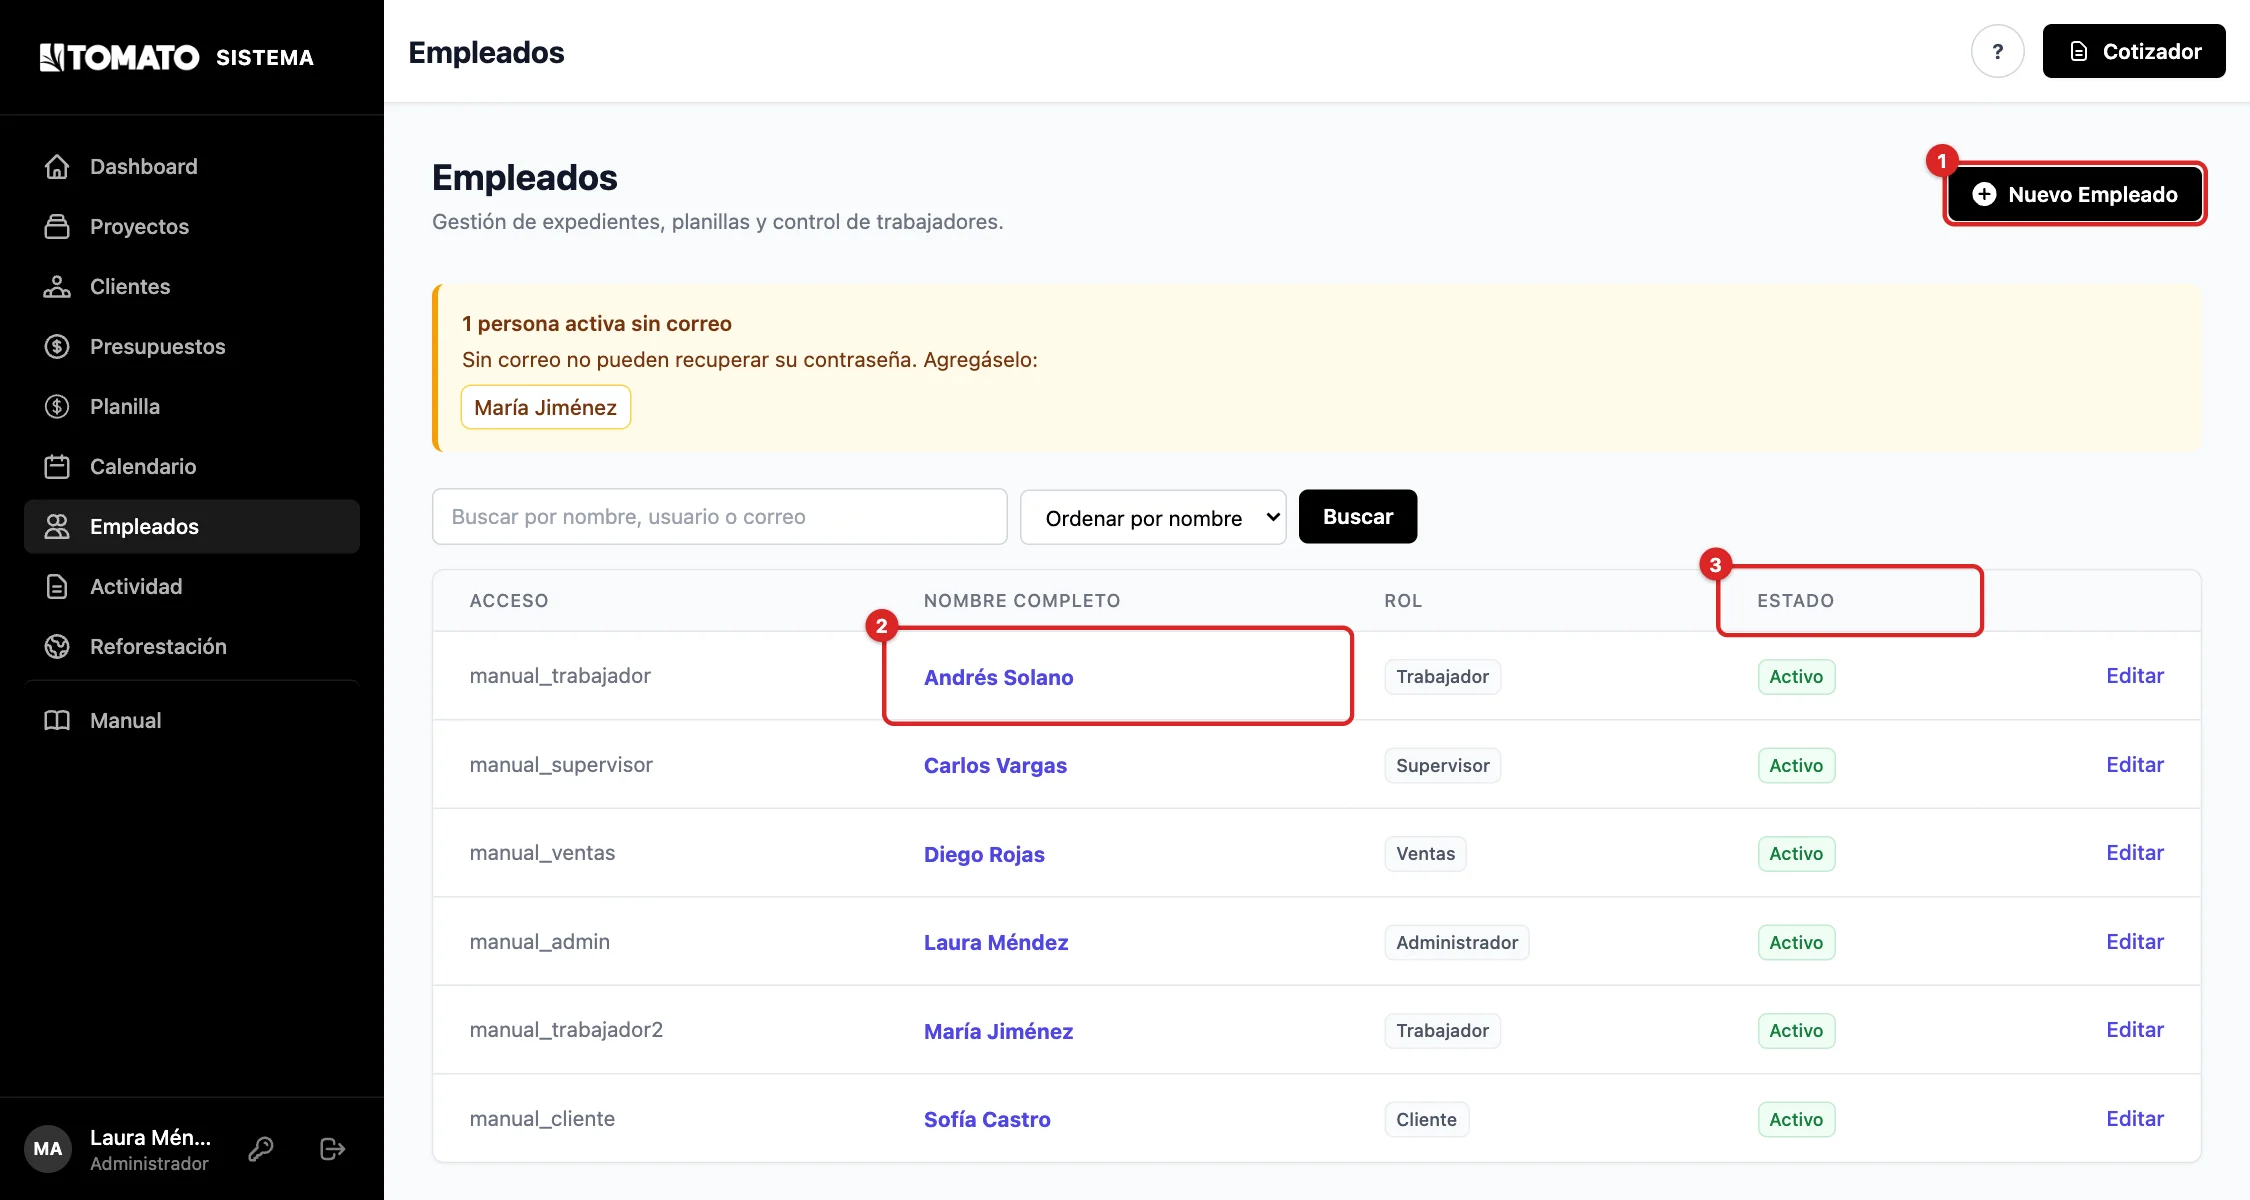
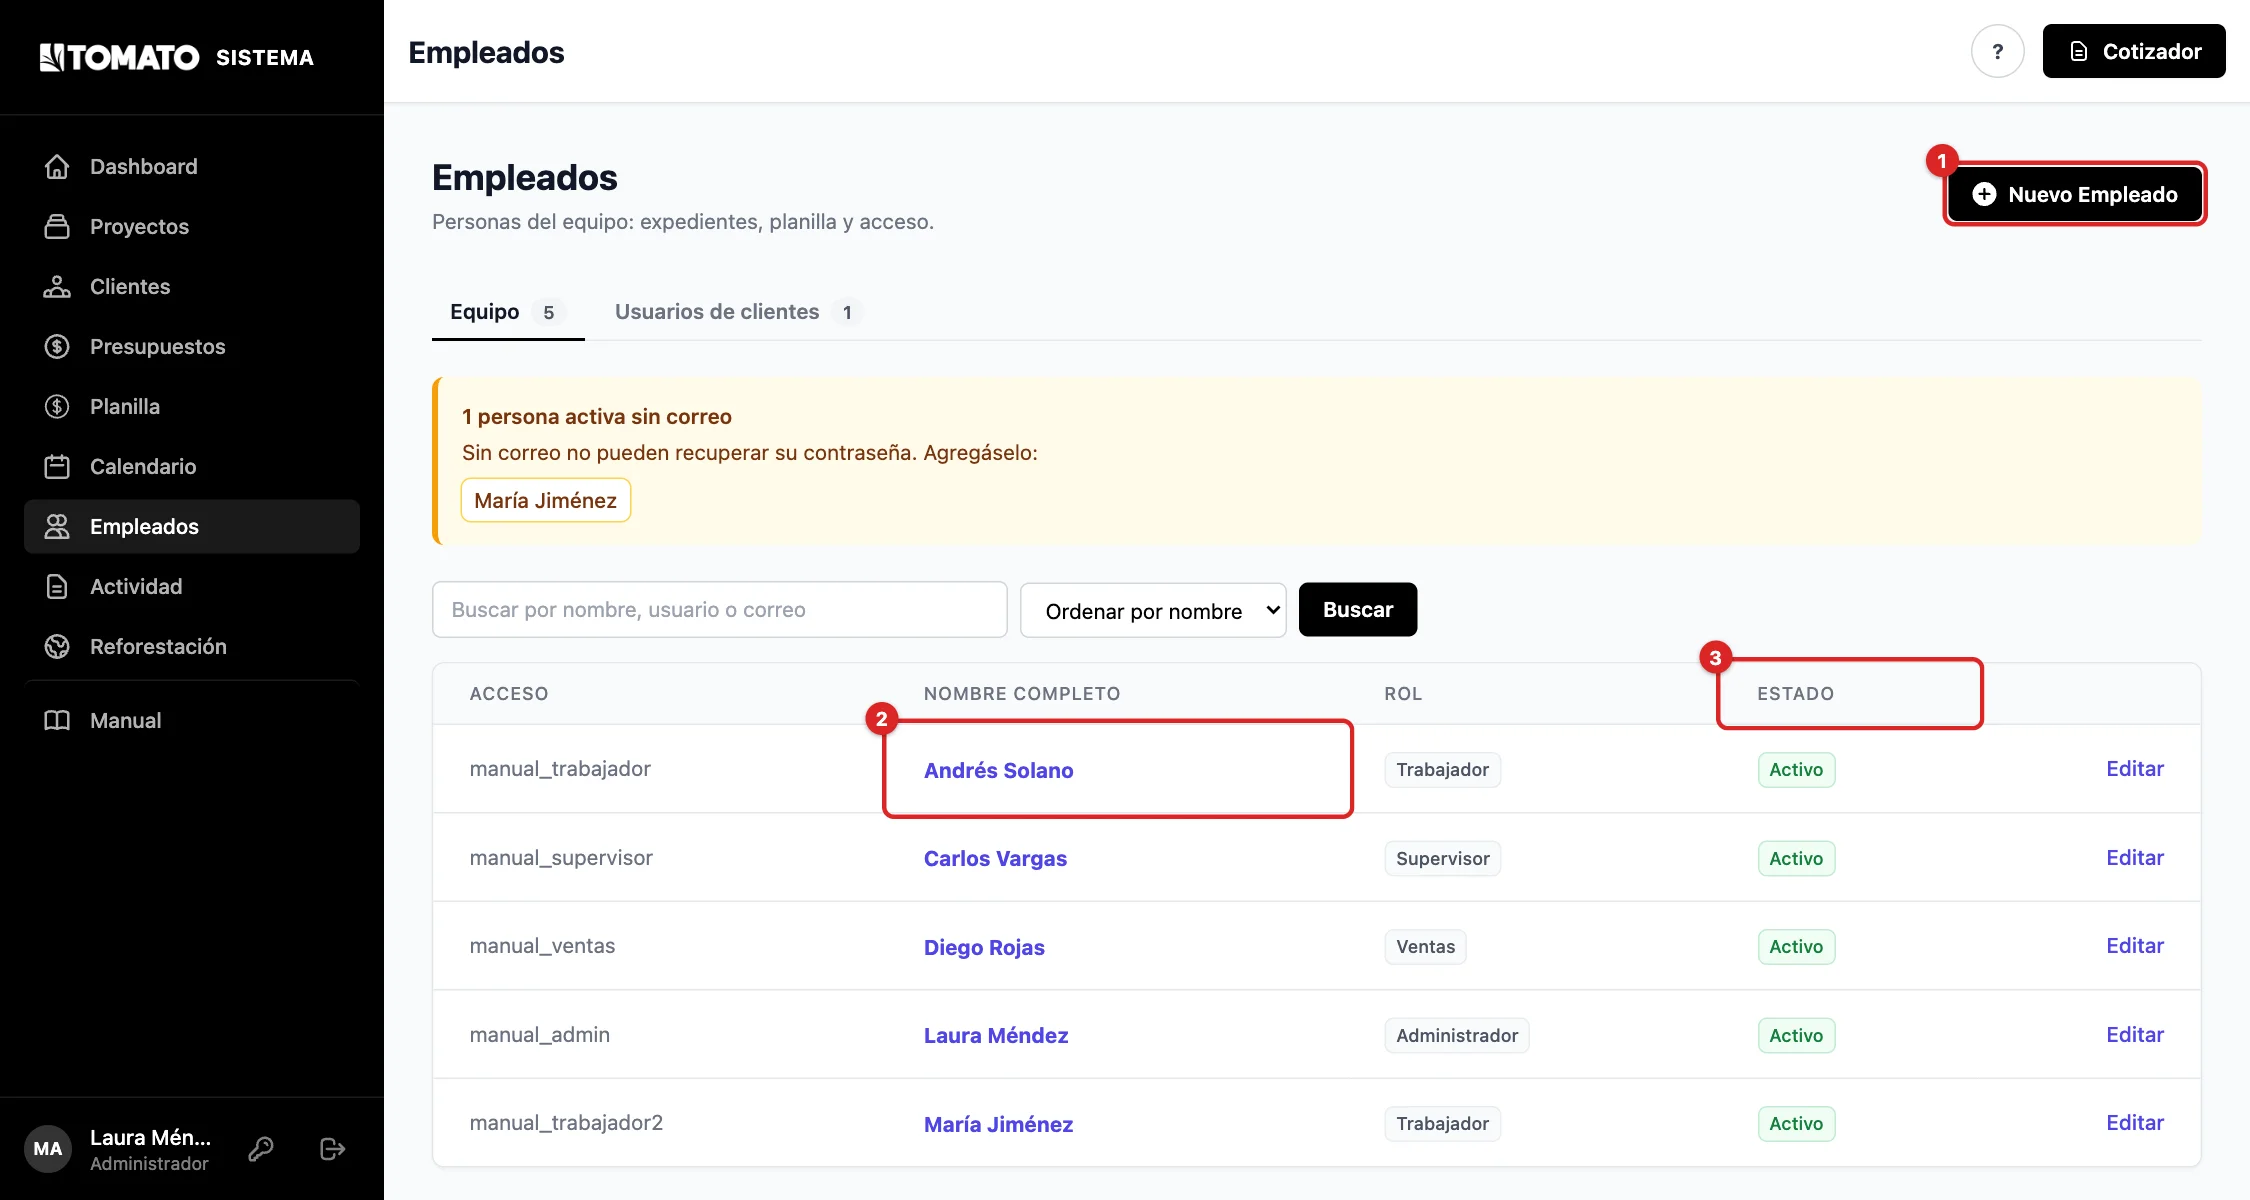
Employees: safe delete and client users on their own tab
- Deleting a person with history no longer crashes: it says what history they
  have and to deactivate them; only people without history are deleted, after
  removing their links.
- Employees list split into Equipo and Usuarios de clientes.
- Manual and CHANGELOG updated; new screenshots.

diff --git a/app/templates/users/list.html b/app/templates/users/list.html
@@ -8,7 +8,7 @@
     <div class="flex flex-col sm:flex-row justify-between items-start sm:items-center gap-4 mb-8">
         <div>
             <h1 class="text-2xl font-bold text-gray-900">Empleados</h1>
-            <p class="mt-1 text-sm text-gray-500">Gestión de expedientes, planillas y control de trabajadores.</p>
+            <p class="mt-1 text-sm text-gray-500">{{ 'Personas del equipo: expedientes, planilla y acceso.' if tipo == 'equipo' else 'Usuarios con los que cada cliente entra al portal a ver sus proyectos y cotizaciones.' }}</p>
         </div>
         <a href="/users/new"
             class="inline-flex items-center justify-center rounded-md bg-black px-4 py-2 text-sm font-semibold text-white shadow-sm hover:bg-gray-800 focus-visible:outline focus-visible:outline-2 focus-visible:outline-offset-2 focus-visible:outline-black">
@@ -20,6 +20,15 @@
             Nuevo Empleado
         </a>
     </div>
+
+    <nav class="mb-6 flex gap-2 border-b border-gray-200 text-sm font-semibold" aria-label="Tipo de usuario">
+        {% for key, label in [('equipo', 'Equipo'), ('clientes', 'Usuarios de clientes')] %}
+        <a href="/users/?tipo={{ key }}" class="-mb-px border-b-2 px-3 py-2 {{ 'border-black text-gray-900' if tipo == key else 'border-transparent text-gray-500 hover:text-gray-800' }}">{{ label }} <span class="ml-1 rounded-full bg-gray-100 px-2 py-0.5 text-xs text-gray-600">{{ counts[key] }}</span></a>
+        {% endfor %}
+    </nav>
+    {% if tipo == 'clientes' %}
+    <p class="mb-4 rounded-md bg-gray-50 p-3 text-sm text-gray-700">Para que un cliente vea su proyecto, su usuario tiene que estar en <em>Acceso al portal</em> del proyecto y ligado como contacto de su cuenta en Clientes. <strong>Eliminarlo le quita el acceso</strong>: si ya no debe entrar, desactivalo.</p>
+    {% endif %}
 
     {% if without_email %}
     <div class="mb-6 rounded-lg border-l-4 border-amber-500 bg-amber-50 p-4 text-sm text-amber-900">
@@ -34,6 +43,7 @@
     {% endif %}
 
     <form method="get" action="/users/" class="mb-4 flex flex-col gap-2 sm:flex-row sm:items-center">
+        <input type="hidden" name="tipo" value="{{ tipo }}">
         <input type="search" name="q" value="{{ q }}" placeholder="Buscar por nombre, usuario o correo" aria-label="Buscar"
             class="block w-full rounded-md border border-gray-300 px-3 py-2 text-sm sm:max-w-sm">
         <select name="sort" aria-label="Ordenar" onchange="this.form.submit()" class="rounded-md border border-gray-300 px-3 py-2 text-sm">
@@ -42,7 +52,7 @@
             {% endfor %}
         </select>
         <button class="rounded-md bg-black px-4 py-2 text-sm font-semibold text-white hover:bg-gray-800">Buscar</button>
-        {% if q %}<a href="/users/" class="text-sm text-gray-600 underline">Limpiar</a>{% endif %}
+        {% if q %}<a href="/users/?tipo={{ tipo }}" class="text-sm text-gray-600 underline">Limpiar</a>{% endif %}
     </form>
 
     <div class="bg-white shadow-sm rounded-lg border border-gray-200 overflow-x-auto">
@@ -98,7 +108,7 @@
             </tbody>
         </table>
         {% from "components/pagination.html" import render_pagination %}
-        {% set params = [] %}
+        {% set params = ['tipo=' ~ tipo] %}
         {% if q %}{% set _ = params.append('q=' ~ (q | urlencode)) %}{% endif %}
         {% if sort != 'name' %}{% set _ = params.append('sort=' ~ sort) %}{% endif %}
         {{ render_pagination(page, total_pages, '/users/' ~ ('?' ~ params | join('&') if params else '')) }}

diff --git a/app/templates/manual/empleados.html b/app/templates/manual/empleados.html
@@ -15,7 +15,8 @@
     (2, "Tocá el <strong>nombre</strong> para ver el expediente: contacto, fecha de ingreso, cargas sociales y documentos."),
     (3, "<strong>Estado</strong>: Activo, Inactivo o Liquidado, y <em>Editar</em>."),
 ]) }}
-<p>Arriba de la tabla podés <strong>buscar</strong> por nombre, usuario o correo y <strong>ordenar</strong> por nombre, rol,
+<p>La lista tiene dos pestañas: <strong>Equipo</strong> (trabajadores, supervisores, ventas y admins) y <strong>Usuarios
+    de clientes</strong> (los usuarios con los que cada cliente entra al portal). Arriba de la tabla podés <strong>buscar</strong> por nombre, usuario o correo y <strong>ordenar</strong> por nombre, rol,
     activos primero o más recientes.</p>
 {% endcall %}
 
@@ -54,8 +55,9 @@
     <li><strong>Desactivar</strong> (desmarcar <em>Empleado Activo</em>): la persona ya no puede entrar y, si tenía la
         sesión abierta, la pierde en la siguiente pantalla. Su historial se conserva. <strong>Es lo recomendado</strong>
         cuando alguien deja de trabajar.</li>
-    <li><strong>Eliminar Empleado</strong> borra a la persona para siempre y no se puede deshacer. Usalo solo para usuarios
-        creados por error.</li>
+    <li><strong>Eliminar Empleado</strong> borra a la persona para siempre y no se puede deshacer. Solo funciona con usuarios
+        creados por error, <strong>sin historial</strong>: si tiene bitácoras, asignaciones, planillas, pagos u otros
+        registros, el sistema dice cuáles y hay que desactivarla. Eliminar un usuario de cliente le quita el acceso al portal.</li>
     <li>Cuando alguien sale de la empresa con liquidación, hacelo desde Planilla → Liquidaciones: queda desactivado y marcado como liquidado.</li>
     <li>No podés desactivarte, quitarte el rol de admin ni eliminarte a vos mismo.</li>
 </ul>

diff --git a/app/routers/users.py b/app/routers/users.py
@@ -11,7 +11,7 @@ from sqlalchemy import or_, func
 
 from app.db.models.user import User
 from app.routers import deps
-from app.core.roles import ADMIN, ALL_ROLES, ROLE_LABELS
+from app.core.roles import CLIENT, ADMIN, ALL_ROLES, ROLE_LABELS
 from app.core.security import get_password_hash
 from sqlalchemy.exc import IntegrityError
 from app.utils.activity import log_activity
@@ -82,12 +82,17 @@ def list_users(
     limit: int = 10,
     q: str = "",
     sort: str = "name",
+    tipo: str = "equipo",
     db: Session = Depends(deps.get_db), 
     user: User = Depends(deps.get_current_user)
 ):
     check_admin(user)
 
-    query = db.query(User)
+    # Two lists: the team (payroll, calendar) and the clients' portal users.
+    tipo = "clientes" if tipo == "clientes" else "equipo"
+    query = db.query(User).filter(User.role == CLIENT if tipo == "clientes" else User.role != CLIENT)
+    counts = {"equipo": db.query(User).filter(User.role != CLIENT).count(),
+              "clientes": db.query(User).filter(User.role == CLIENT).count()}
     q = q.strip()
     if q:
         like = f"%{q}%"
@@ -118,6 +123,8 @@ def list_users(
         "total_records": total_records,
         "q": q,
         "sort": sort,
+        "tipo": tipo,
+        "counts": counts,
         "without_email": db.query(User).filter((User.email.is_(None)) | (User.email == ""),
                                                User.is_active == True).order_by(User.full_name).all(),  # noqa: E712
     })
@@ -315,6 +322,49 @@ def update_user(
     response.set_cookie(key="toast_message", value="Empleado actualizado correctamente")
     return response
 
+# Records that are the person's history: while any exists, the person is deactivated, never deleted.
+HISTORY = (
+    ("daily_logs", "user_id", "bitácora(s)"),
+    ("project_schedules", "user_id", "asignación(es)"),
+    ("payroll_entries", "user_id", "planilla(s)"),
+    ("payroll_payments", "user_id", "pago(s)"),
+    ("payroll_payments", "created_by_id", "pago(s) registrados"),
+    ("liquidations", "user_id", "liquidación(es)"),
+    ("liquidations", "created_by_id", "liquidación(es) registradas"),
+    ("tree_checks", "user_id", "monitoreo(s)"),
+    ("accounts", "owner_id", "cuenta(s) a cargo"),
+    ("accounts", "created_by_id", "cuenta(s) creadas"),
+    ("opportunities", "owner_id", "oportunidad(es) a cargo"),
+    ("opportunities", "created_by_id", "oportunidad(es) creadas"),
+    ("crm_activities", "user_id", "actividad(es) de Clientes"),
+)
+
+
+def user_history(db: Session, user_id: int) -> List[str]:
+    from sqlalchemy import text
+    found = []
+    for table, column, label in HISTORY:
+        count = db.execute(text(f"SELECT COUNT(*) FROM {table} WHERE {column} = :id"), {"id": user_id}).scalar()
+        if count:
+            found.append(f"{count} {label}")
+    count = db.execute(text("SELECT COUNT(*) FROM activity_logs WHERE user_id = :id AND action != 'LOGIN'"),
+                       {"id": user_id}).scalar()
+    if count:
+        found.append(f"{count} registro(s) en Actividad")
+    return found
+
+
+def unlink_user(db: Session, user_id: int):
+    """Links that are not history: project membership, contact link, lead motor, their logins."""
+    from sqlalchemy import text
+    for sql in ("DELETE FROM project_users WHERE user_id = :id",
+                "DELETE FROM crm_assignments WHERE user_id = :id",
+                "UPDATE contacts SET user_id = NULL WHERE user_id = :id",
+                "UPDATE account_not_duplicates SET user_id = NULL WHERE user_id = :id",
+                "UPDATE activity_logs SET user_id = NULL WHERE user_id = :id AND action = 'LOGIN'"):
+        db.execute(text(sql), {"id": user_id})
+
+
 @router.post("/{id}/delete")
 def delete_user(
     id: int,
@@ -334,12 +384,22 @@ def delete_user(
     if not user_to_delete:
          raise HTTPException(status_code=404, detail="User not found")
          
-    deleted_username = user_to_delete.username    
+    # Only a person with no history can be deleted (someone created by mistake). With
+    # history, the database would refuse, and the right action is to deactivate them.
+    history = user_history(db, id)
+    if history:
+        name = user_to_delete.full_name or user_to_delete.username
+        return error_redirect(f"/users/{id}/edit", (
+            f"No se puede eliminar a {name}: tiene historial ({', '.join(history)}). "
+            "Para que ya no entre al sistema, desmarcá Empleado Activo y guardá."))
+
+    deleted_username = user_to_delete.username
+    unlink_user(db, id)
     db.delete(user_to_delete)
     db.commit()
-    
+
     # Audit Log
-    log_activity(db, user, "DELETE", "USER", id, f"Deleted user {deleted_username}")
+    log_activity(db, user, "DELETE", "USER", id, f"Eliminó al usuario {deleted_username}")
     
     response = RedirectResponse(url="/users", status_code=status.HTTP_303_SEE_OTHER)
     response.set_cookie(key="toast_message", value="Usuario eliminado correctamente")

diff --git a/tests/test_ux_ronda_3.py b/tests/test_ux_ronda_3.py
@@ -234,3 +234,38 @@ def test_panel_uses_decimal_comma(db, login_as):
     html = login_as("admin").get("/dashboard/reforestacion").text
     assert "66,7 %" in html
     assert "Superv. 3 m" in html
+
+
+# --- Deleting a person ----------------------------------------------------------------------
+
+def test_person_with_history_is_not_deleted(db, login_as, users):
+    from app.db.models.log import DailyLog as Log
+    db.add(Log(project_id=users["project_id"], user_id=users["worker"].id, date=date.today(), notes="x"))
+    db.commit()
+    response = login_as("admin").post(f"/users/{users['worker'].id}/delete", follow_redirects=False)
+    assert response.status_code == 303 and response.headers["location"] == f"/users/{users['worker'].id}/edit"
+    assert response.cookies.get("toast_type") == "error"
+    assert db.get(User, users["worker"].id) is not None
+
+
+def test_person_created_by_mistake_is_deleted_with_its_links(db, login_as, users):
+    from app.db.models.activity import ActivityLog
+    from app.db.models.project import Project
+    from tests.conftest import make_user
+    extra = make_user(db, "por_error", "worker")
+    project = db.get(Project, users["project_id"])
+    project.users.append(extra)
+    db.add(ActivityLog(user_id=extra.id, action="LOGIN", entity_type="SISTEMA", details="entró"))
+    db.commit()
+    response = login_as("admin").post(f"/users/{extra.id}/delete", follow_redirects=False)
+    assert response.headers["location"] == "/users"
+    db.expire_all()
+    assert db.query(User).filter(User.username == "por_error").count() == 0
+
+
+def test_client_users_have_their_own_tab(login_as, users):
+    client = login_as("admin")
+    team = client.get("/users/").text.split("<tbody", 1)[1].split("</tbody>", 1)[0]
+    portal = client.get("/users/?tipo=clientes").text.split("<tbody", 1)[1].split("</tbody>", 1)[0]
+    assert "u_client" not in team and "u_worker" in team
+    assert "u_client" in portal and "u_worker" not in portal

diff --git a/CHANGELOG.md b/CHANGELOG.md
@@ -6,7 +6,17 @@ desplegar. Hora de Costa Rica salvo que diga UTC.
 
 ## 2026-09-28
 
-### Arreglo: texto del calendario vacío (esta rama)
+### Arreglo: eliminar empleado y usuarios de clientes aparte (esta rama)
+- Eliminar a una persona con historial (bitácoras, asignaciones, planillas, pagos,
+  liquidaciones, monitoreos, Clientes o Actividad) daba "Internal Server Error". Ahora
+  dice qué historial tiene y que hay que desactivarla; solo se elimina a quien no tiene
+  historial, quitando antes sus vínculos (proyectos, contacto, motor de prospectos,
+  entradas de LOGIN).
+- Empleados se separa en dos pestañas: **Equipo** y **Usuarios de clientes** (los del
+  portal, con la advertencia de que eliminarlos les quita el acceso).
+- Despliegue: sin migraciones; reiniciar.
+
+### Arreglo: texto del calendario vacío (#75)
 - Una semana sin asignaciones dice "No hay asignaciones en estas fechas" en vez de
   "No events to display".
 - Datos: se quitaron 5 asignaciones repetidas y vacías de Will Perez en Casa Guácima
